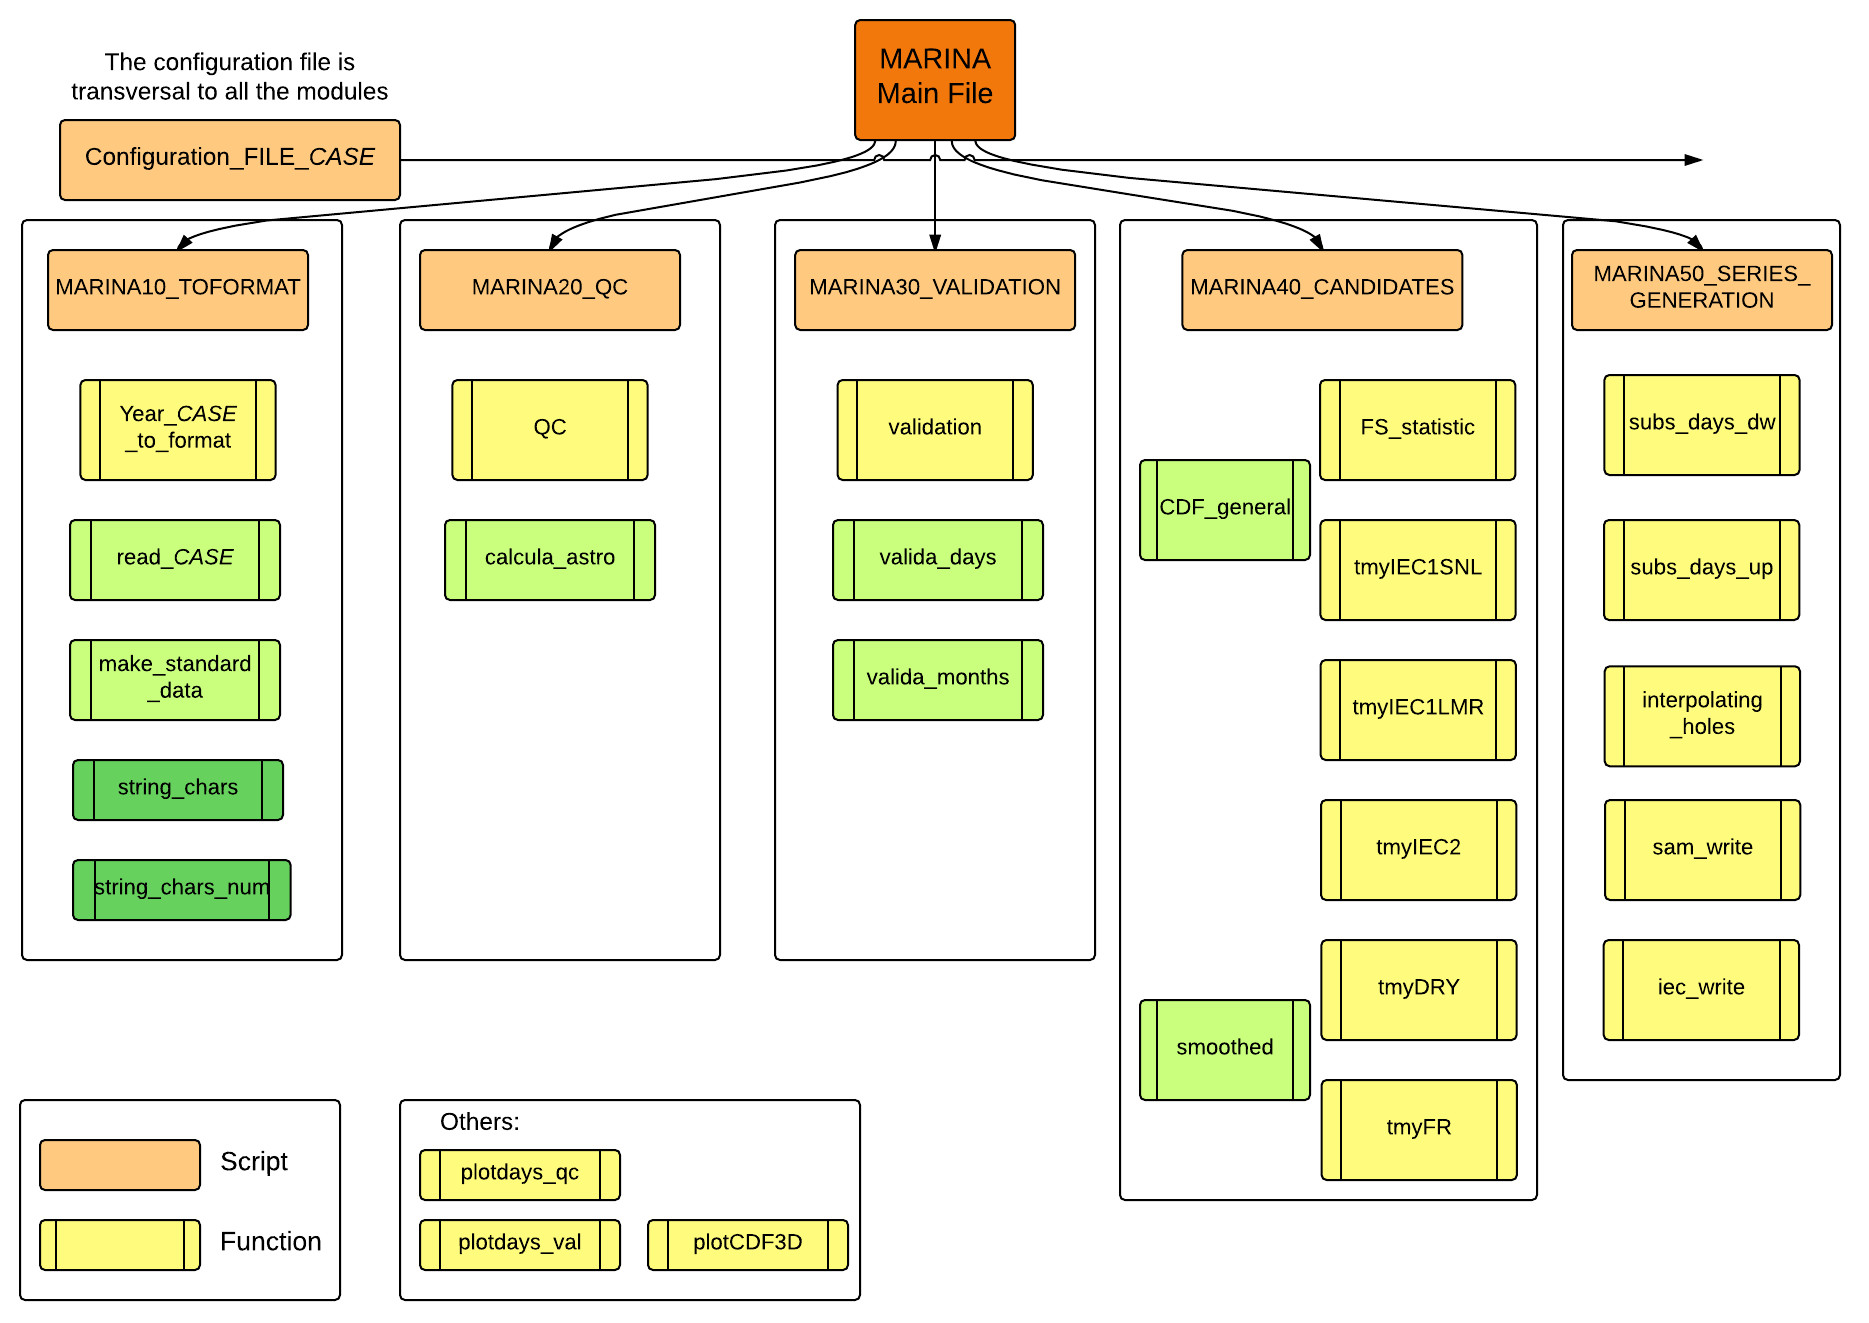
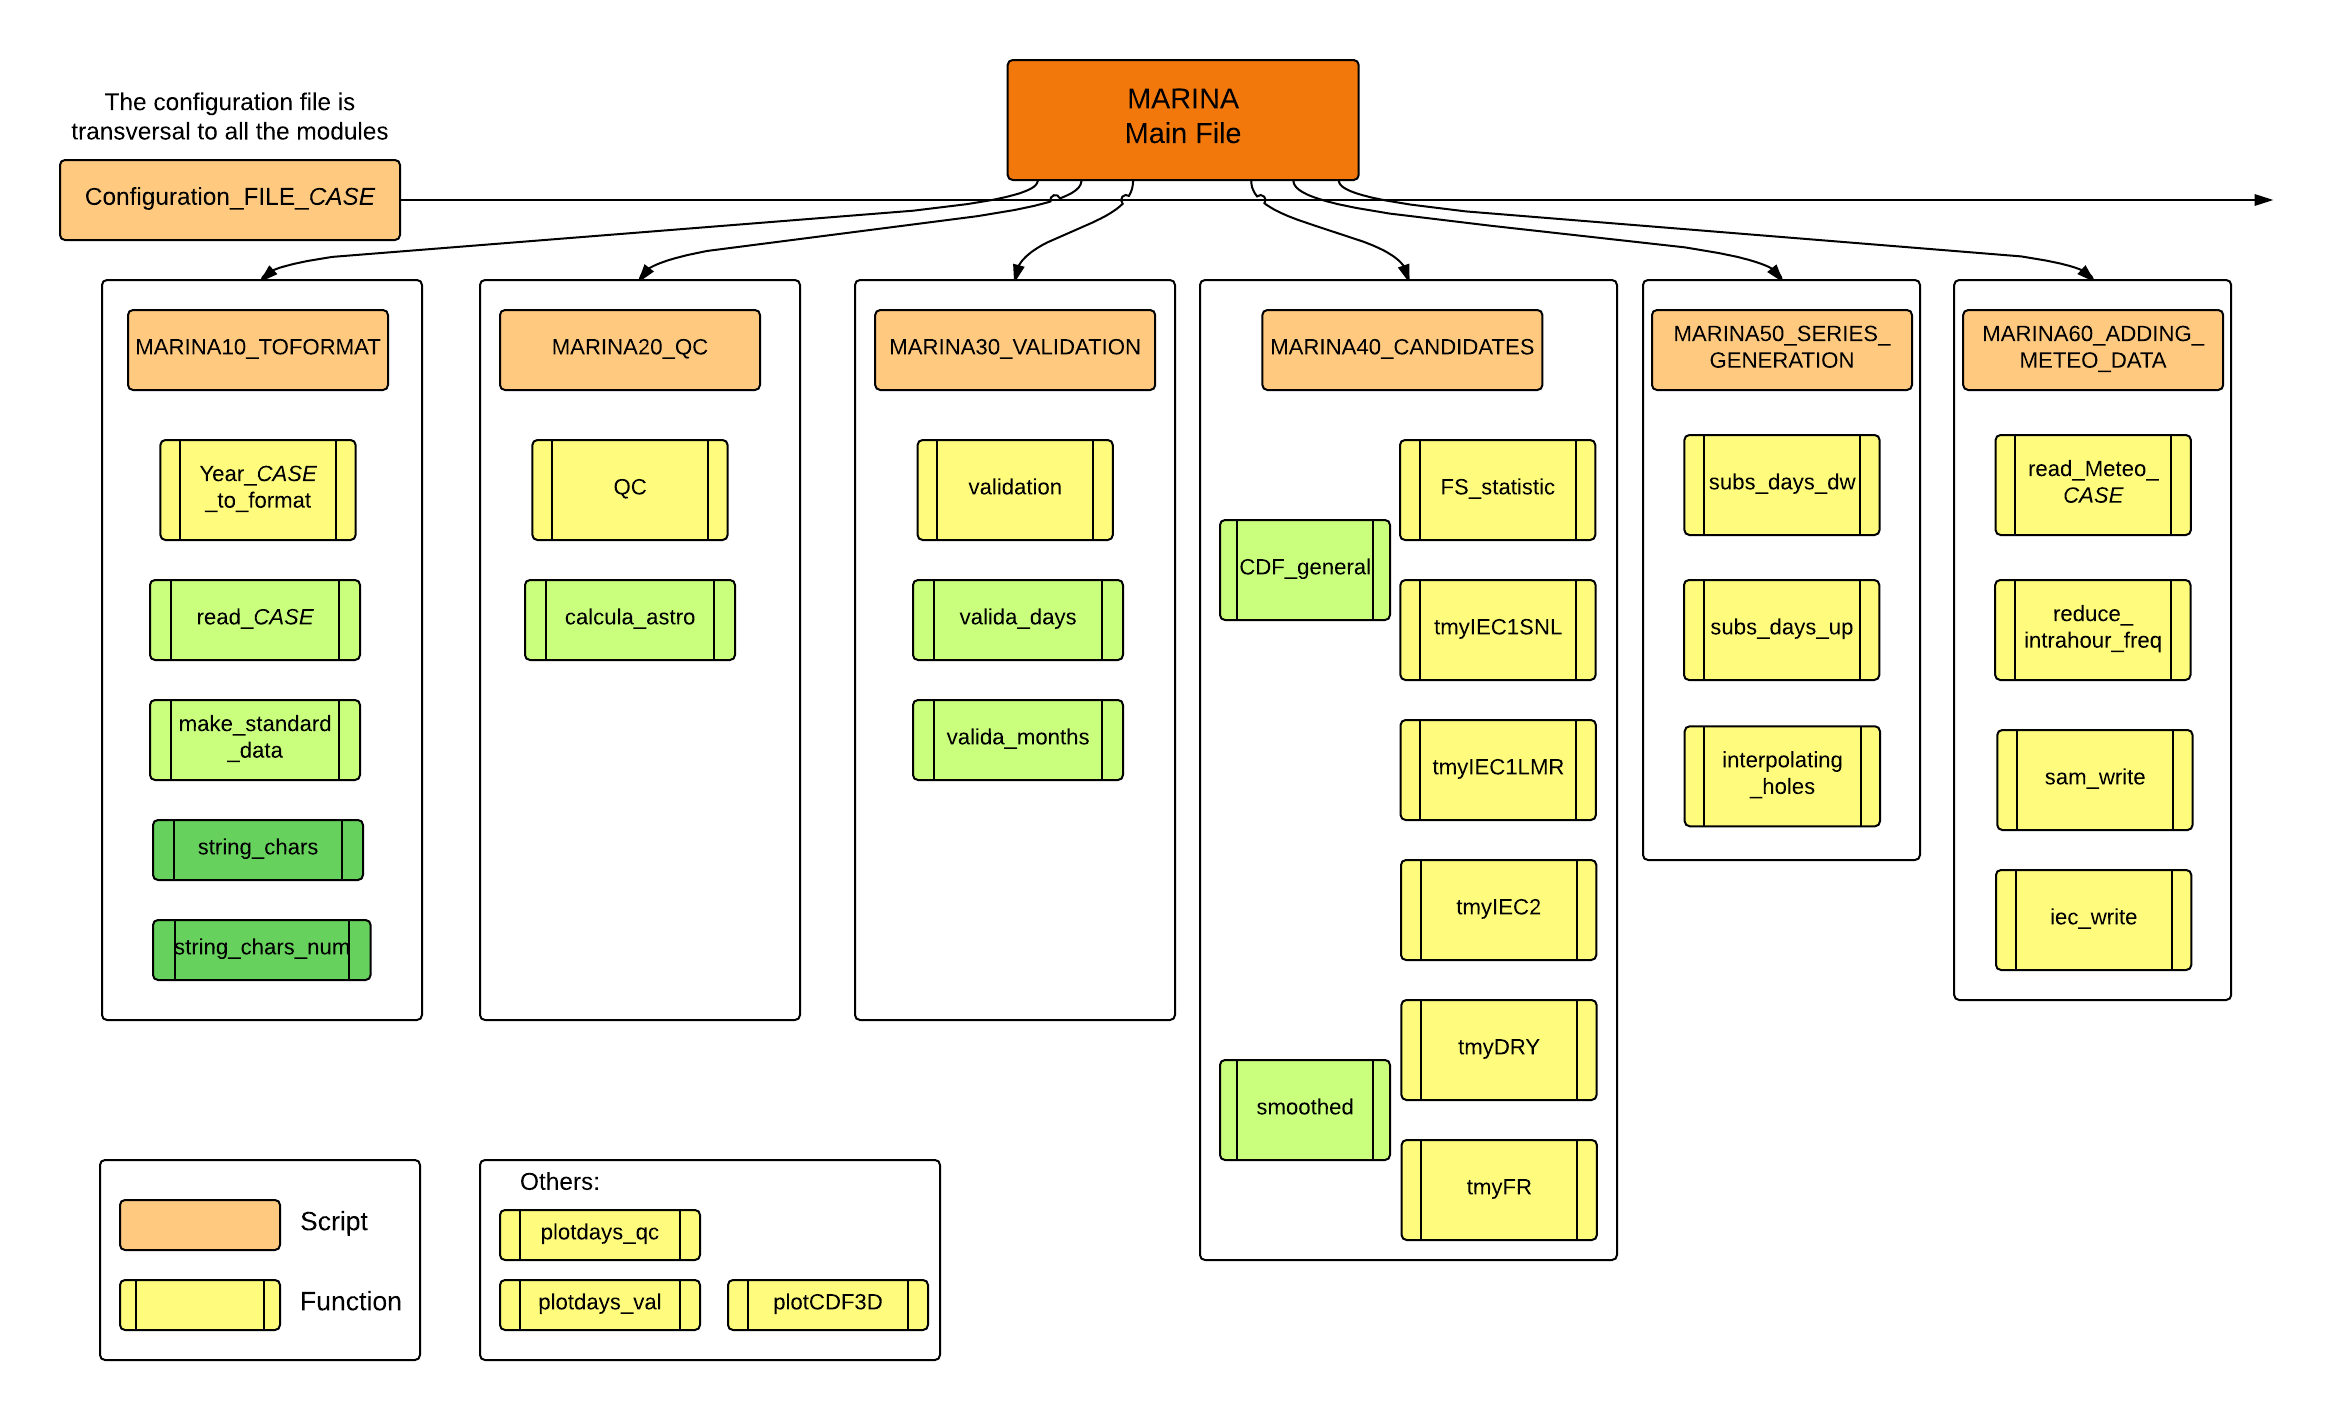
Minor changes. Files diagram updated.

diff --git a/MARINA60_ADDING_METEO_DATA.m b/MARINA60_ADDING_METEO_DATA.m
@@ -9,18 +9,19 @@
 % Update F. Mendoza (June 2017) at CIEMAT.
 %%%%%%%%%%%%%%%%%%%%%%%%%%%%%%%%%%%%%%%%%%%%%%%%%%%%%%%%%%%%%%%%%%%%%%%%%%
 % INPUT
-%  (1) OUTPUT-GENERACION (3 sheets by case)
-%        sheet CASE_Dini   initial daily values
-%        sheet CASE_Dfin   final daily values
-%        sheet CASE_M      final monthly values
-%  (2) TMY-ASTRI-CASE.TXT
-%        txt file: aaaa mm dd hh MM SS GHI eGHI DNI eDNI DHI eDNI
+% ..\OUTPUT\5_ASR
+%       out_series.mat: Definitive series, daily and monthly of
+%       the typical year
+% ..\OUTPUT\3_VALIDATION
+%       'dataval' structure of the selected years (i.e. loc00-owner_station-num-YYYY_VAL)  
 %
 % OUTPUT
-% ..\OUTPUT\4_ASR\NAME_SERIES
-%  (2) TMY-ASTRI-CASE.TXT
-%      txt file: aaaa mm dd hh MM SS GHI eGHI DNI eDNI DHI eDNI WEADER
-%
+% ..\OUTPUT\5_ASR\NAME_SERIES
+%  (1) Plain text formats
+%  (1a) SAM CSV format 'SAM_...'.csv
+%  (1b) IEC 62862-1-3 format 'ASR_...'.txt
+%  (2) out_series_meteo.mat: Saves the definitive series with the added
+%   meteorological data.
 %%%%%%%%%%%%%%%%%%%%%%%%%%%%%%%%%%%%%%%%%%%%%%%%%%%%%%%%%%%%%%%%%%%%%%%%%%
 
 close, clearvars -except cfgFile, %clc
@@ -48,7 +49,7 @@ end
 
 %% Read other meteorological database
 freadmeteo = strcat(path_meteo,'\',meteofile);
-[headersMeteo, meteonormData] = read_MeteoData(freadmeteo,num_obs_meteo);
+[headersMeteo, meteonormData] = read_MeteoData(freadmeteo,num_obs_meteo); % Function
 
 %% Match data frequency
 if num_obs==num_obs_report % Same sampling frequency for printing

diff --git a/MARINA50_SERIES_GENERATION.m b/MARINA50_SERIES_GENERATION.m
@@ -19,11 +19,8 @@
 %  (1) Excel report 'loc00-owner_station-num'_SERIES Sheets:
 %       - 'name_series'_D: Definitive daily radiation series of the typical year
 %       - 'name_series'_M: Definitive monthly radiation series of the typical year
-%  (2) Plain text formats
-%  (2a) SAM CSV format 'SAM_...'.csv
-%  (2b) IEC 62862-1-3 format 'ASR_...'.txt
-%  (3) Figures: Plot of the definitive series
-%  (4) out_series.mat: Saves the definitive series, daily and monthly of
+%  (2) Figures: Plot of the definitive series
+%  (3) out_series.mat: Saves the definitive series, daily and monthly of
 %      the typical year
 %%%%%%%%%%%%%%%%%%%%%%%%%%%%%%%%%%%%%%%%%%%%%%%%%%%%%%%%%%%%%%%%%%%%%%%%%%
 
